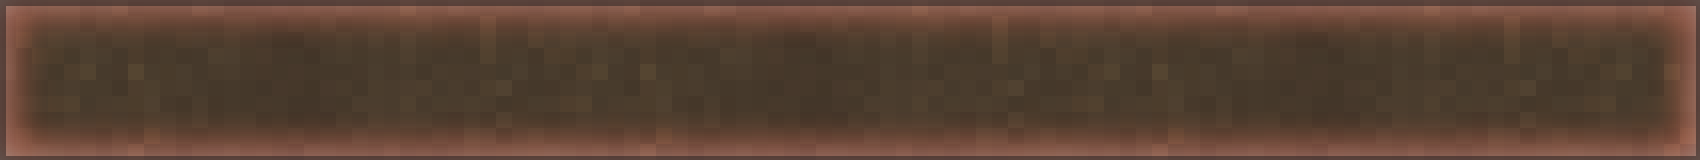
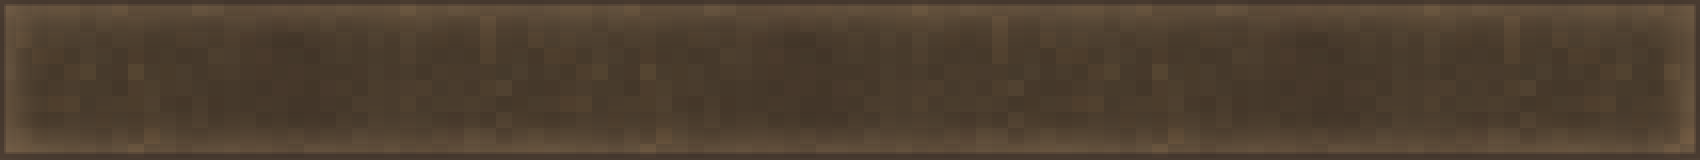
Rebuild backgrounds from the decompiled BlurFull pipeline
The rim was still wrong because the blur was approximated. This replaces
the guesswork with the exact decompiled pipeline (VS 1.22.7):

- Glow stroke color is DialogLightBgColor[0]*2.1 on the R channel and
  DialogStrongBgColor*2.1 on G/B - (134.5, 111.3, 86.1), a tan, not the
  salmon guess. Border stroke is rgba(45,35,33, 0.75^2) at 5px.
- BlurFull(scaled(9)) is boxesForGauss(9,3) = box widths 17/17/19, three
  H+V passes on RGB only, alpha untouched, edge-clamped sampling.
- Grain is soil.png (32x32, opaque) at mulAlpha 64 (~25%) with Cairo's
  inverse pattern matrix at 0.125 => an 8x nearest-neighbor blowup
  (256px tile).
- The extension panel is now composed as the left end of a continuous
  bar: vanilla rim on top/left/bottom, no right edge, so it merges into
  the hotbar's own left border instead of doubling it.
- The hotbar's dialog surface is fully covered by its background path,
  so the surface is opaque and the blur edge-clamps on every side.

assets-src/recreate-hotbar-background.py regenerates everything
(extension texture, design PNGs, layered XCFs) and prints rim-profile
diagnostics: peak (100,82,62) at 3px inside the edge, settling by
~13px, interior base (72,57,43).

Changed region(s): [[0.0, 0.0312, 0.9976, 1.0]]

diff --git a/assets-src/recreate-hotbar-background.py b/assets-src/recreate-hotbar-background.py
@@ -1,0 +1,330 @@
+#!/usr/bin/env python3
+"""Recreate the vanilla hotbar dialog background, pixel-exactly.
+
+Everything here is transcribed from the decompiled Vintage Story 1.22.7
+sources (decompile tree: Optimum-0.3.14, matching the installed client):
+
+- GuiElementDialogBackground.ComposeElements  (fill / glow stroke / blur /
+  grain fill / border stroke, in that order)
+- HudHotbar (line 271): the hotbar's background element has FullBlur = true,
+  so the blur is surface.BlurFull(scaled(9))
+- Cairo SurfaceTransformBlur.GaussianBlur: boxesForGauss(sigma, 3) followed by
+  three box passes (horizontal + vertical each) that touch ONLY the RGB
+  channels - alpha is copied through untouched - with edge-clamped sampling
+- GuiElement.scaled(v) = v * RuntimeEnv.GUIScale (GUIScale = 1 here; the
+  texture is stretched uniformly by the mod at other scales)
+- GuiElement.getPattern: soil.png with mulAlpha=64 (~25% alpha),
+  Filter.Nearest, pattern matrix scale 0.125/GUIScale. soil.png is 32x32 and
+  Cairo samples pattern space with the INVERSE of the matrix, so the tile is
+  drawn at 32 / (0.125) = 256 px - an 8x nearest-neighbor blowup.
+- GuiStyle: DialogStrongBgColor = #403529 (alpha 1), DialogLightBgColor =
+  #403529 @ 0.75, DialogBGRadius = 1. The glow stroke color is
+  (Light[0]*2.1, Strong[1]*2.1, Strong[2]*2.1) with alpha 1 and line width
+  strokeWidth*2 = 10; the border stroke is rgba(45, 35, 33, Alpha*Alpha =
+  0.5625) with line width strokeWidth = 5.
+
+The hotbar's dialog surface is fully covered by its background path (the path
+runs from (0,0) to (W, H-1), so the strokes clip at the surface edges) - the
+composed surface is opaque and the blur edge-clamps on every side.
+
+The Open Hand extension panel is the LEFT END of that same bar: identical rim
+treatment on top/left/bottom, but no right edge (the hotbar's own left edge
+provides the junction), so the texture is composed on a wider canvas with the
+fill continuing rightward and cropped to 64 px.
+"""
+
+from __future__ import annotations
+
+import math
+import subprocess
+import sys
+import tempfile
+from pathlib import Path
+
+import numpy as np
+from PIL import Image, ImageDraw
+
+REPO = Path(__file__).resolve().parent.parent
+ASSETS_SRC = REPO / "assets-src"
+SOIL_PATH = Path(
+    "/home/mchastain/code/vs-testing/game/assets/game/textures/gui/backgrounds/soil.png"
+)
+
+# --- decompiled constants (all colors normalized to 0..1) ------------------
+BASE_RGB = (64 / 255, 53 / 255, 41 / 255)  # #403529, DialogStrongBgColor, alpha 1.0
+GLOW_RGB = (
+    64 / 255 * 2.1,  # DialogLightBgColor[0] * 2.1
+    53 / 255 * 2.1,  # DialogStrongBgColor[1] * 2.1
+    41 / 255 * 2.1,  # DialogStrongBgColor[2] * 2.1
+)  # (134.5, 111.3, 86.1) - the "tan" rim
+BORDER_RGB = (45 / 255, 35 / 255, 33 / 255)
+BORDER_ALPHA = 0.75**2  # Alpha * Alpha, Alpha = AddShadedDialogBG's 0.75
+GRAIN_ALPHA = 64 / 255  # getPattern(mulAlpha: 64)
+GRAIN_BLOWUP = 8  # pattern matrix 0.125 => 32px soil drawn at 256px
+BLUR_SIGMA = 9  # BlurFull(scaled(9)), GUIScale = 1
+CORNER_RADIUS = 1  # GuiStyle.DialogBGRadius, scaled
+SS = 4  # supersampling factor so strokes get Cairo-quality antialiasing
+
+EXT_W, EXT_H = 64, 80  # extension panel: 48px slot + 2 * 8px padding, 80px bar
+VAN_W, VAN_H = 850, 80  # vanilla hotbar backdrop
+
+
+def boxes_for_gauss(sigma: float, n: int = 3) -> list[int]:
+    """Exact port of GaussianBlur.boxesForGauss (C# Math.Round = banker's)."""
+    w_ideal = math.sqrt((12 * sigma * sigma / n) + 1)
+    wl = int(math.floor(w_ideal))
+    if wl % 2 == 0:
+        wl -= 1
+    wu = wl + 2
+    m_ideal = (12 * sigma * sigma - n * wl * wl - 4 * n * wl - 3 * n) / (-4 * wl - 4)
+    m = round(m_ideal)
+    return [wl if i < m else wu for i in range(n)]
+
+
+def _box_pass(rgb: np.ndarray, r: int, axis: int) -> np.ndarray:
+    """Edge-clamped box average, matching fv/lv extension in the C# blur."""
+    pad = [(0, 0)] * rgb.ndim
+    pad[axis] = (r, r)
+    padded = np.pad(rgb, pad, mode="edge")
+    win = np.lib.stride_tricks.sliding_window_view(padded, 2 * r + 1, axis=axis)
+    return win.sum(axis=-1) / (2 * r + 1)
+
+
+def blur_full_rgb(rgb: np.ndarray, sigma: float = BLUR_SIGMA) -> np.ndarray:
+    """BlurFull: 3 box passes (H then V each), RGB only, alpha untouched."""
+    out = rgb
+    for box in boxes_for_gauss(sigma):
+        r = (box - 1) // 2
+        out = _box_pass(out, r, axis=1)
+        out = _box_pass(out, r, axis=0)
+    return out
+
+
+def over(dst: np.ndarray, src: np.ndarray) -> np.ndarray:
+    """Straight-alpha source-over composite (Cairo's default Operator.Over)."""
+    sa = src[..., 3:4]
+    da = dst[..., 3:4]
+    oa = sa + da * (1.0 - sa)
+    rgb = (src[..., :3] * sa + dst[..., :3] * da * (1.0 - sa)) / np.maximum(oa, 1e-9)
+    return np.concatenate([rgb, oa], axis=-1)
+
+
+def _downsample(img: Image.Image, w: int, h: int) -> np.ndarray:
+    img = img.resize((w, h), Image.BOX)
+    return np.asarray(img, dtype=np.float64) / 255.0
+
+
+def fill_layer(w: int, h: int, margin: int) -> np.ndarray:
+    """Opaque rounded-rect fill: path (0,0)-(w+margin, h-1), radius 1."""
+    ss = SS
+    img = Image.new("RGBA", ((w + margin) * ss, h * ss), (0, 0, 0, 0))
+    draw = ImageDraw.Draw(img)
+    draw.rounded_rectangle(
+        (0, 0, (w + margin) * ss - 1, (h - 1) * ss - 1),
+        radius=CORNER_RADIUS * ss,
+        fill=tuple(int(round(c * 255)) for c in BASE_RGB) + (255,),
+    )
+    return _downsample(img, w + margin, h)
+
+
+def stroke_layer(
+    w: int, h: int, margin: int, expand: float, width: float, rgb: tuple, alpha: float
+) -> np.ndarray:
+    """Cairo-centered stroke on the path: bbox expanded by width/2 outward."""
+    ss = SS
+    img = Image.new("RGBA", ((w + margin) * ss, h * ss), (0, 0, 0, 0))
+    draw = ImageDraw.Draw(img)
+    e = expand * ss
+    color = tuple(int(round(c * 255)) for c in rgb) + (int(round(alpha * 255)),)
+    draw.rounded_rectangle(
+        (-e, -e, (w + margin + expand) * ss - 1, (h - 1 + expand) * ss - 1),
+        radius=int((CORNER_RADIUS + expand) * ss),
+        outline=color,
+        width=int(round(width * ss)),
+    )
+    return _downsample(img, w + margin, h)
+
+
+def grain_layer(w: int, h: int, margin: int, interior_mask: np.ndarray) -> np.ndarray:
+    """soil.png at 25% alpha, 8x nearest blowup, clipped to the path interior."""
+    soil = Image.open(SOIL_PATH).convert("RGBA")
+    tile = soil.resize((soil.width * GRAIN_BLOWUP, soil.height * GRAIN_BLOWUP), Image.NEAREST)
+    tiles_x = (w + margin + tile.width - 1) // tile.width
+    tiles_y = (h + tile.height - 1) // tile.height
+    canvas = Image.new("RGBA", (tiles_x * tile.width, tiles_y * tile.height))
+    for ty in range(tiles_y):
+        for tx in range(tiles_x):
+            canvas.paste(tile, (tx * tile.width, ty * tile.height))
+    grain = np.asarray(canvas, dtype=np.float64)[:h, : w + margin] / 255.0
+    grain[..., 3:4] = GRAIN_ALPHA
+    grain[..., 3:4] *= interior_mask
+    return grain
+
+
+def compose(w: int, h: int, open_right: bool = False) -> np.ndarray:
+    """Full vanilla pipeline. open_right=True composes the left end of a
+    continuous bar (no right-edge rim) for the extension panel."""
+    margin = 48 if open_right else 0
+
+    fill = fill_layer(w, h, margin)
+    glow = stroke_layer(
+        w, h, margin, expand=5.0, width=10.0, rgb=GLOW_RGB, alpha=1.0  # strokeWidth*2
+    )
+    base = over(fill, glow)
+
+    # BlurFull blurs the premultiplied ARGB32 buffer; alpha passes through.
+    premult = base[..., :3] * base[..., 3:4]
+    blurred = blur_full_rgb(premult)
+    base = np.concatenate(
+        [blurred / np.maximum(base[..., 3:4], 1e-9), base[..., 3:4]], axis=-1
+    )
+
+    # Grain fills the path interior only (FillPreserve after the blur).
+    interior = (fill[..., 3] > 0.5).astype(np.float64)[..., None]
+    base = over(base, grain_layer(w, h, margin, interior))
+
+    # Border: rgba(45,35,33,0.5625), width strokeWidth = 5.
+    border = stroke_layer(
+        w, h, margin, expand=2.5, width=5.0, rgb=BORDER_RGB, alpha=BORDER_ALPHA
+    )
+    base = over(base, border)
+
+    if open_right:
+        base = base[:, :w]
+    return base
+
+
+def save_png(path: Path, arr: np.ndarray) -> None:
+    Image.fromarray(np.round(arr * 255).astype(np.uint8), "RGBA").save(path)
+
+
+def layer_pngs(arr: np.ndarray, fill_glow: np.ndarray, grain: np.ndarray, interior: np.ndarray,
+               border: np.ndarray, outdir: Path, prefix: str) -> list[Path]:
+    """Write the three XCF layer images (bottom -> top)."""
+    paths = []
+    specs = [
+        (f"{prefix}-1-fill-glow-blurred.png", fill_glow),
+        (f"{prefix}-2-soil-grain-25pct.png",
+         np.concatenate([grain[..., :3], grain[..., 3:4] * interior], axis=-1)),
+        (f"{prefix}-3-border-stroke.png", border),
+    ]
+    for name, layer in specs:
+        p = outdir / name
+        save_png(p, layer)
+        paths.append(p)
+    return paths
+
+
+XCF_SCRIPT = """
+(let* ((image (car (gimp-file-load RUN-NONINTERACTIVE "{bottom}" "{bottom}"))))
+  (gimp-item-set-name (vector-ref (car (gimp-image-get-layers image)) 0) "{bottom_name}")
+  (let ((grain-layer (car (gimp-layer-new-from-drawable
+                           (car (gimp-file-load RUN-NONINTERACTIVE "{mid}" "{mid}")) image))))
+    (gimp-image-insert-layer image grain-layer 0 0)
+    (gimp-item-set-name grain-layer "{mid_name}"))
+  (let ((border-layer (car (gimp-layer-new-from-drawable
+                            (car (gimp-file-load RUN-NONINTERACTIVE "{top}" "{top}")) image))))
+    (gimp-image-insert-layer image border-layer 0 0)
+    (gimp-item-set-name border-layer "{top_name}"))
+  (gimp-file-save RUN-NONINTERACTIVE image "{out}")
+  (gimp-quit 0))
+"""
+
+
+def build_xcf(layers: list[Path], out_path: Path, names: list[str]) -> None:
+    bottom, mid, top = layers
+    script = XCF_SCRIPT.format(
+        bottom=bottom, mid=mid, top=top, out=out_path,
+        bottom_name=names[0], mid_name=names[1], top_name=names[2],
+    )
+    result = subprocess.run(
+        ["gimp", "-i", "-d", "-f", "--batch-interpreter", "plug-in-script-fu-eval",
+         "-b", script, "-b", "(gimp-quit 0)"],
+        capture_output=True, text=True, timeout=300,
+    )
+    if result.returncode != 0:
+        sys.exit(f"gimp batch failed:\n{result.stdout}\n{result.stderr}")
+
+
+def profile(arr: np.ndarray, column: int, rows: int = 30) -> list[tuple[int, int, int, int]]:
+    return [
+        (y, *tuple(int(v * 255) for v in arr[y, column][:3])) for y in range(rows)
+    ]
+
+
+def report(arr: np.ndarray, label: str, column: int) -> None:
+    print(f"\n{label} - top-edge rim profile (column {column}):")
+    for y, r, g, b in profile(arr, column):
+        print(f"  row {y:3d}: ({r:3d},{g:3d},{b:3d})")
+    rgb = arr[..., :3] * 255
+    base = rgb[40, column - 5]
+    dev = np.abs(rgb[:30, column] - base).sum(axis=-1)
+    peak = int(np.argmax(dev))
+    settle = next((y for y in range(peak, 30) if dev[y] < 18), -1)
+    print(f"  peak at row {peak} {tuple(int(v) for v in rgb[peak, column])}, "
+          f"settles by row {settle}, interior base {tuple(int(v) for v in base)}")
+
+
+def main() -> None:
+    # --- extension panel: left end of a continuous bar, open right --------
+    ext = compose(EXT_W, EXT_H, open_right=True)
+    save_png(REPO / "assets/openhand/textures/hud/hotbar-extension.png", ext)
+    save_png(ASSETS_SRC / "hotbar-extension-background.png", ext)
+
+    # --- vanilla bar ------------------------------------------------------
+    van = compose(VAN_W, VAN_H)
+    save_png(ASSETS_SRC / "vanilla-hotbar-background.png", van)
+    preview = Image.fromarray(np.round(van * 255).astype(np.uint8), "RGBA")
+    preview.resize((VAN_W * 2, VAN_H * 2), Image.NEAREST).save(
+        ASSETS_SRC / "vanilla-hotbar-background-preview-2x.png"
+    )
+
+    # --- layered XCFs -----------------------------------------------------
+    with tempfile.TemporaryDirectory() as tmp:
+        tmp = Path(tmp)
+        # Recompose per-layer for the XCFs (same code path, captured stages).
+        for w, h, open_right, xcf, prefix in [
+            (EXT_W, EXT_H, True, ASSETS_SRC / "hotbar-extension-background.xcf", "ext"),
+            (VAN_W, VAN_H, False, ASSETS_SRC / "vanilla-hotbar-background.xcf", "van"),
+        ]:
+            margin = 48 if open_right else 0
+            fill = fill_layer(w, h, margin)
+            glow = stroke_layer(w, h, margin, 5.0, 10.0, GLOW_RGB, 1.0)
+            fill_glow = over(fill, glow)
+            blurred = blur_full_rgb(fill_glow[..., :3] * fill_glow[..., 3:4])
+            bottom = np.concatenate(
+                [blurred / np.maximum(fill_glow[..., 3:4], 1e-9), fill_glow[..., 3:4]],
+                axis=-1,
+            )
+            interior = (fill[..., 3] > 0.5).astype(np.float64)[..., None]
+            grain = grain_layer(w, h, margin, interior)
+            border = stroke_layer(w, h, margin, 2.5, 5.0, BORDER_RGB, BORDER_ALPHA)
+            layers = layer_pngs(None, fill_glow, grain, interior, border, tmp, prefix)
+            if open_right:
+                layers = []
+                for p in [tmp / f"{prefix}-1-fill-glow-blurred.png",
+                          tmp / f"{prefix}-2-soil-grain-25pct.png",
+                          tmp / f"{prefix}-3-border-stroke.png"]:
+                    img = np.asarray(Image.open(p))[:, :w] / 255.0
+                    out = tmp / (p.stem + "-crop.png")
+                    save_png(out, img)
+                    layers.append(out)
+            build_xcf(
+                layers, xcf,
+                ["fill + glow, BlurFull(9) baked", "soil grain 25%", "border stroke"],
+            )
+
+    # --- diagnostics ------------------------------------------------------
+    for arr, label, col in [
+        (van, "vanilla 850x80", VAN_W // 2),
+        (ext, "extension 64x80", EXT_W // 2),
+    ]:
+        report(arr, label, col)
+
+    print("\nboxesForGauss(9, 3) =", boxes_for_gauss(BLUR_SIGMA), "(radii",
+          [(b - 1) // 2 for b in boxes_for_gauss(BLUR_SIGMA)], ")")
+    print("wrote extension texture, vanilla/extension design PNGs and XCFs")
+
+
+if __name__ == "__main__":
+    main()
